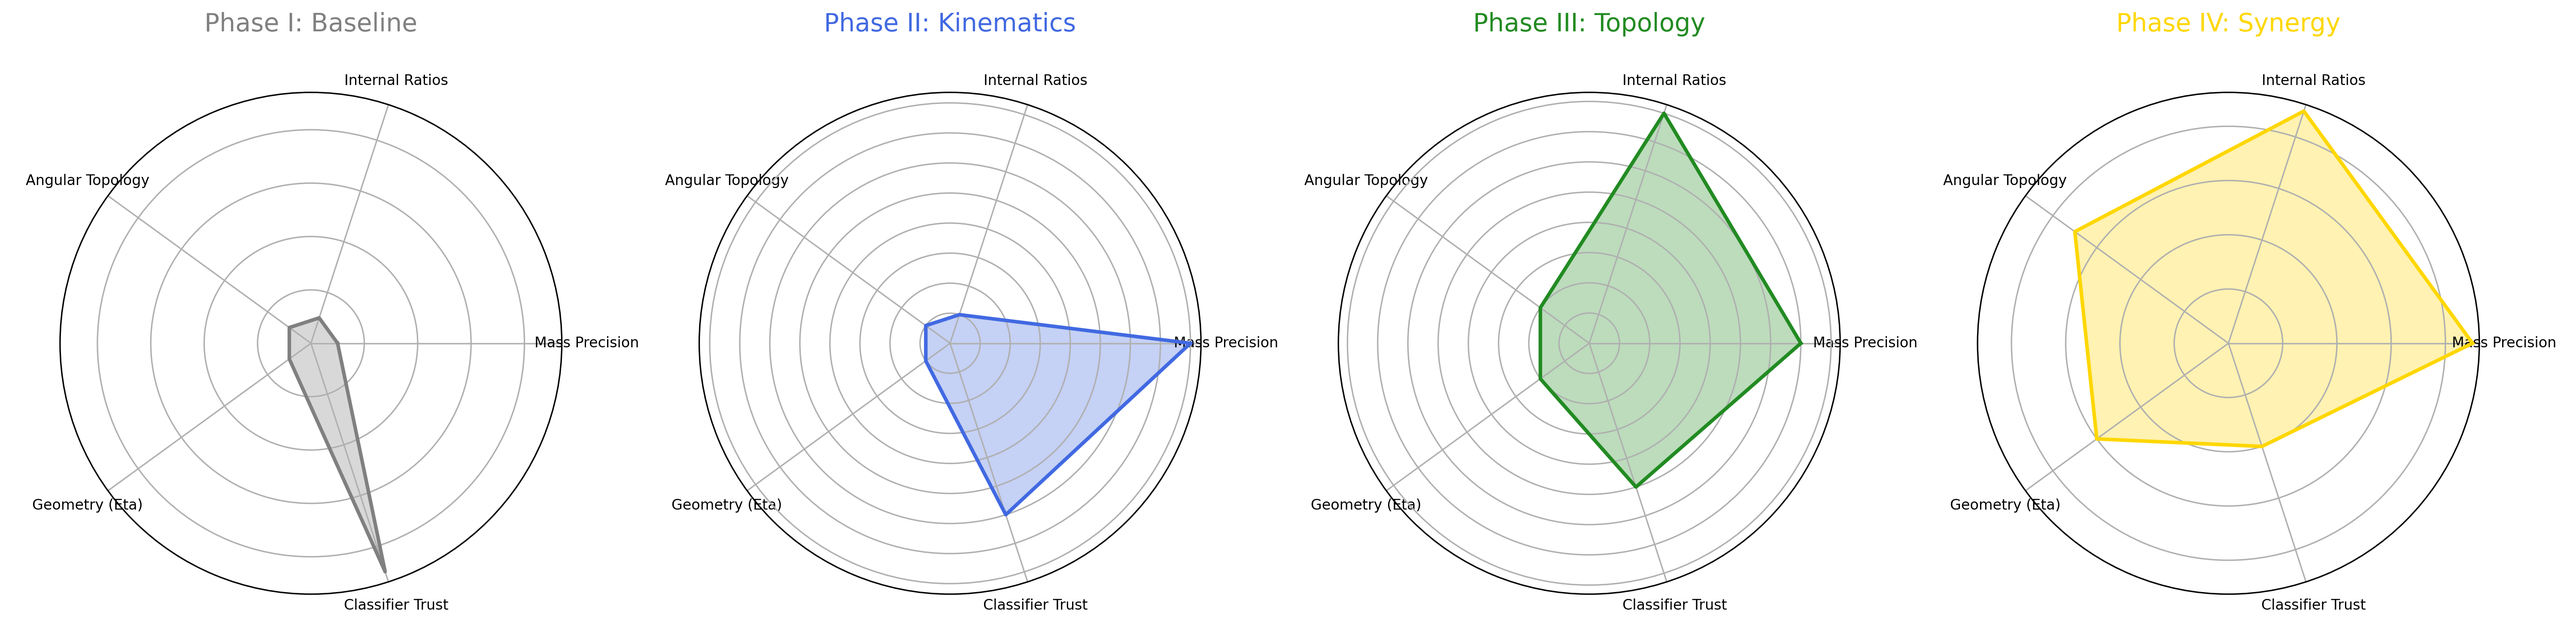
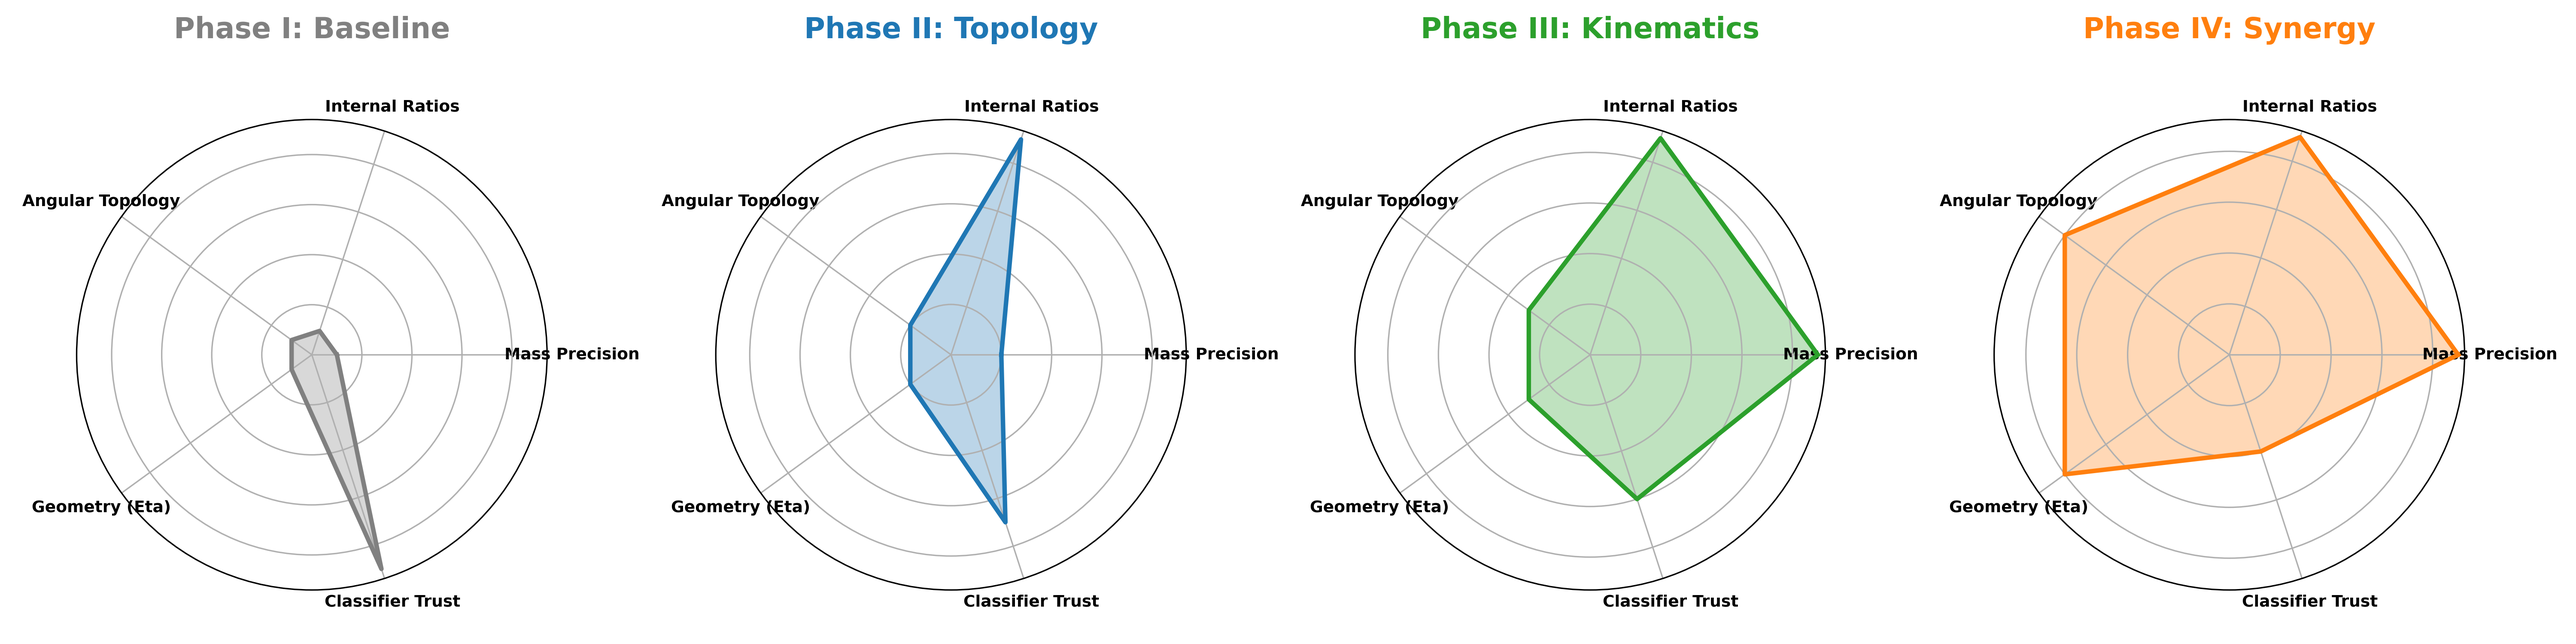
fix: Align Spider Chart stages with the Efficiency Frontier Table (Phase II: Topology, Phase III: Kinematics).

diff --git a/make_spider_plots.py b/make_spider_plots.py
@@ -4,35 +4,34 @@ import numpy as np
 labels = ['Mass Precision', 'Internal Ratios', 'Angular Topology', 'Geometry (Eta)', 'Classifier Trust']
 num_vars = len(labels)
 
-# Milestone Data (Scores 0 to 10 for feature importance/complexity)
-# 1. Baseline
+# Corrected Stages matching the Efficiency Frontier Table
+# 1. Phase I: Baseline (Pure XGBoost)
 baseline = [1, 1, 1, 1, 9]
-# 2. Asymmetric Mass
-mass_phase = [8, 1, 1, 1, 6]
-# 3. Ratio Gating
-ratio_phase = [7, 8, 2, 2, 5]
-# 4. Final Synergy (0.6345)
-final_phase = [9, 9, 7, 6, 4]
+# 2. Phase II: Topology (Discovery of 0.46 Ratio)
+topology = [2, 9, 2, 2, 7]
+# 3. Phase III: Kinematics (Discovery of Asymmetric Mass Priors)
+kinematics = [9, 9, 3, 3, 6]
+# 4. Phase IV: Synergy (Final Geometry & Angular Polish)
+synergy = [9, 9, 8, 8, 4]
 
-phases = [baseline, mass_phase, ratio_phase, final_phase]
-titles = ['Phase I: Baseline', 'Phase II: Kinematics', 'Phase III: Topology', 'Phase IV: Synergy']
-colors = ['gray', 'royalblue', 'forestgreen', 'gold']
+phases = [baseline, topology, kinematics, synergy]
+titles = ['Phase I: Baseline', 'Phase II: Topology', 'Phase III: Kinematics', 'Phase IV: Synergy']
+colors = ['gray', '#1f77b4', '#2ca02c', '#ff7f0e']
 
 fig, axs = plt.subplots(1, 4, figsize=(20, 5), subplot_kw=dict(polar=True))
 
 for i, data in enumerate(phases):
-    # Compute angle for each axis
     angles = np.linspace(0, 2 * np.pi, num_vars, endpoint=False).tolist()
-    data = data + [data[0]] # Close the loop
+    data = data + [data[0]] 
     angles = angles + [angles[0]]
     
     axs[i].fill(angles, data, color=colors[i], alpha=0.3)
-    axs[i].plot(angles, data, color=colors[i], linewidth=2)
+    axs[i].plot(angles, data, color=colors[i], linewidth=2.5)
     axs[i].set_yticklabels([])
     axs[i].set_xticks(angles[:-1])
-    axs[i].set_xticklabels(labels, fontsize=8)
-    axs[i].set_title(titles[i], size=14, color=colors[i], y=1.1)
+    axs[i].set_xticklabels(labels, fontsize=9, fontweight='bold')
+    axs[i].set_title(titles[i], size=16, color=colors[i], y=1.15, fontweight='black')
 
 plt.tight_layout()
 plt.savefig('strategy_spider_evolution.png', dpi=300)
-print('Generated strategy_spider_evolution.png')
+print('Generated corrected strategy_spider_evolution.png')
